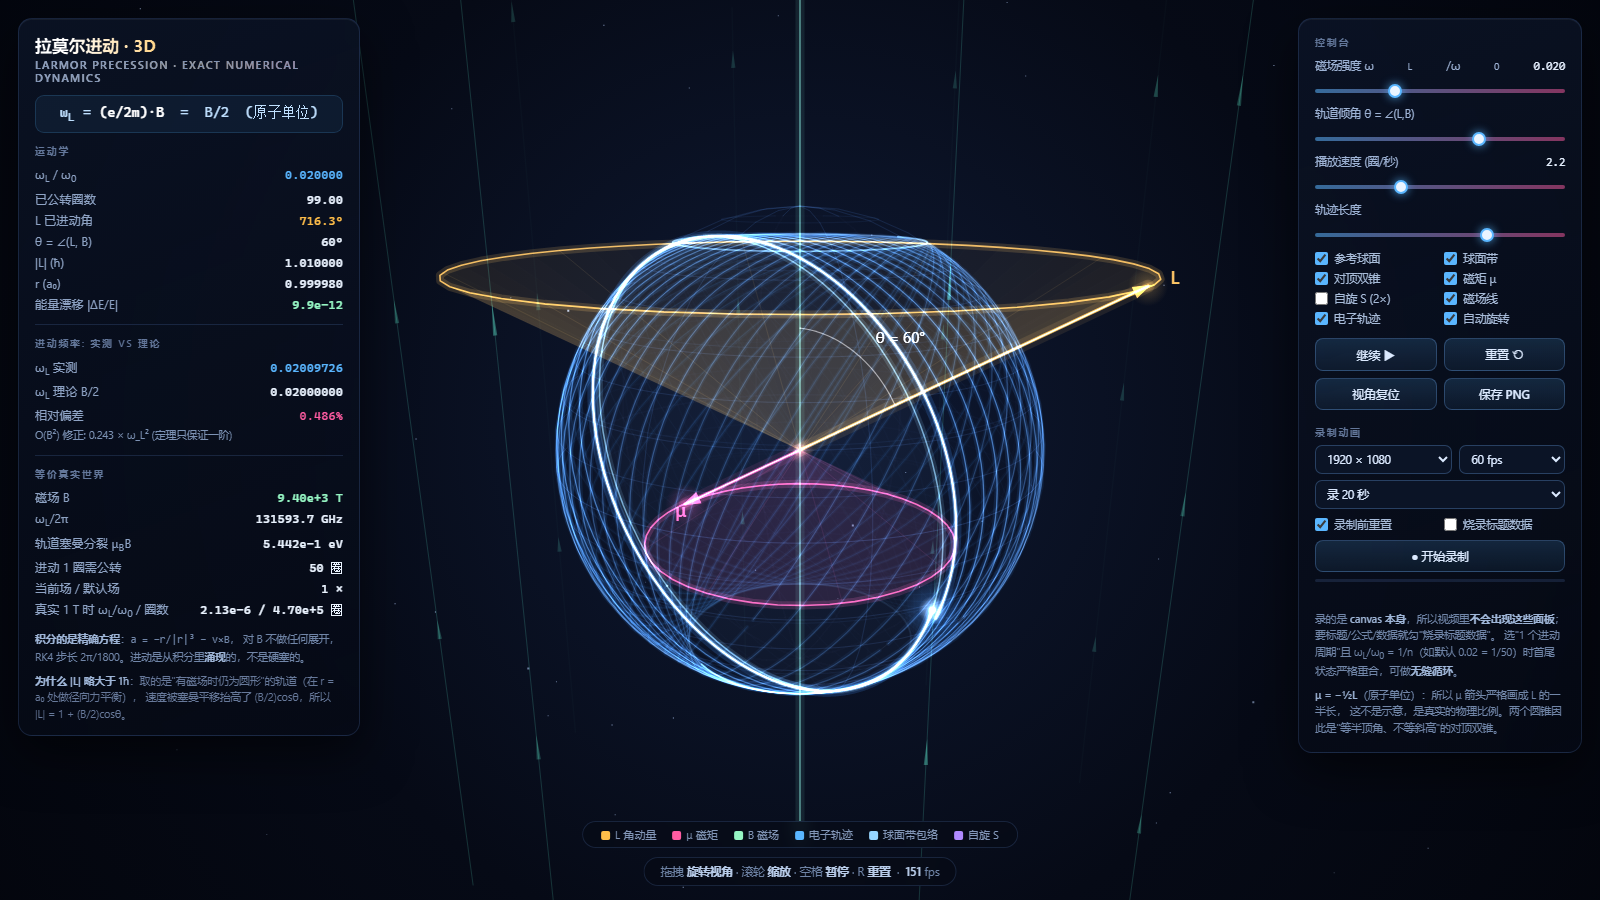
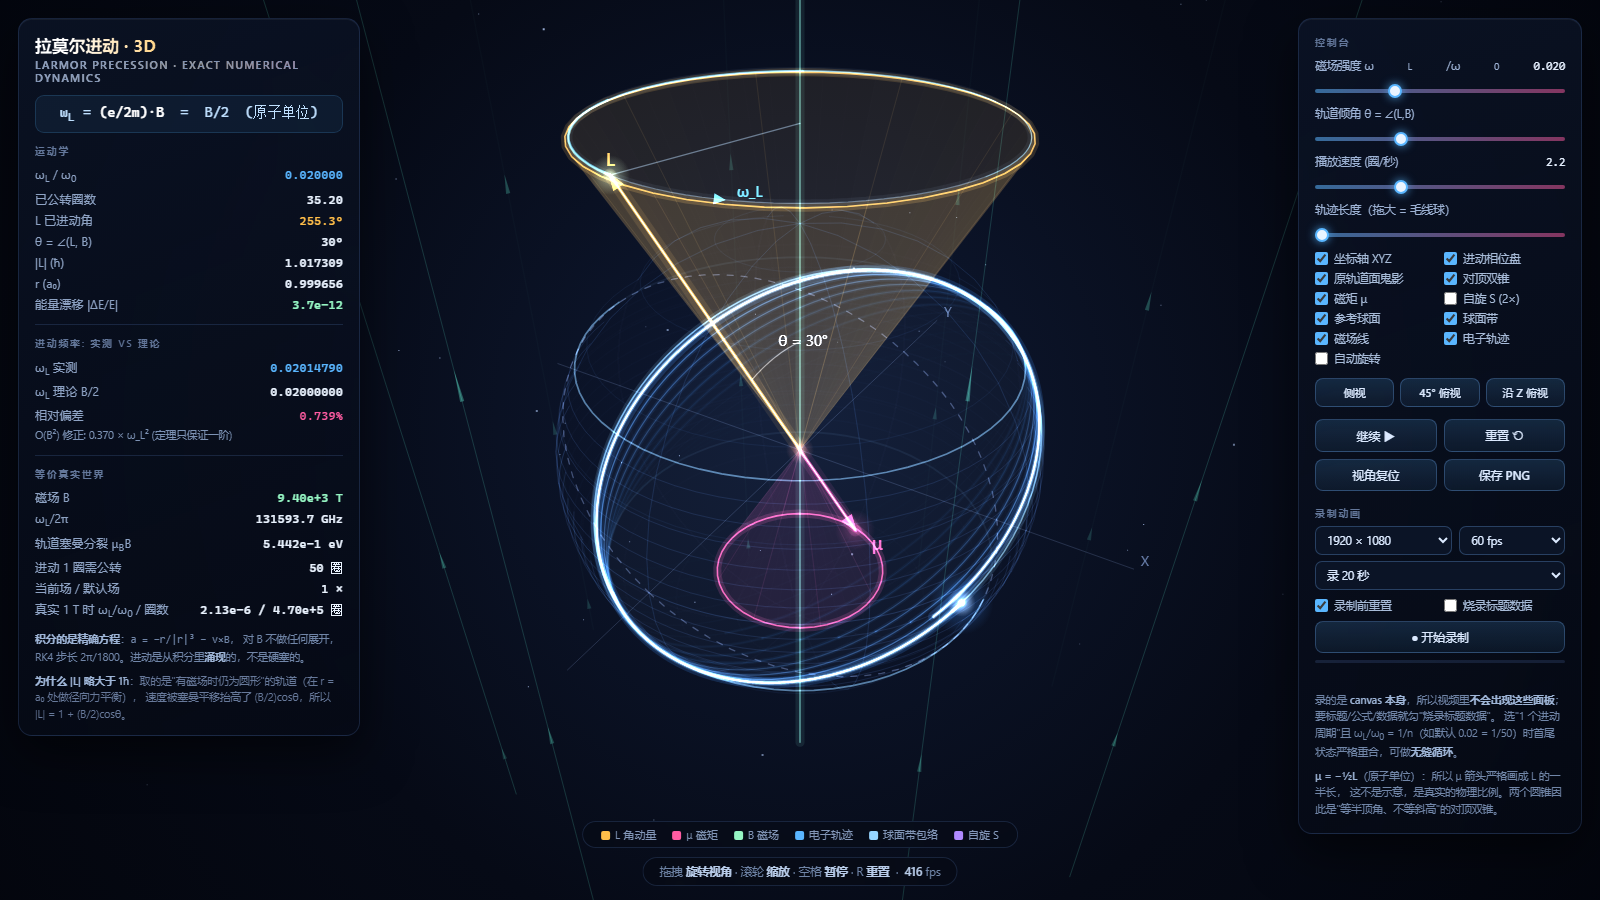
Make the precession about Z unmistakable (teacher feedback)
Feedback: "the idea is right, it does precess, just make it move along/about
the Z axis". Since the demo already precessed about Z (B was drawn along Z and
the precession rate is measured from atan2(L_y, L_x)), the problem was
legibility, not physics. Five fixes:

- Default tilt theta 60 -> 30 deg. At 60 deg the orbit plane is nearly vertical
  so the same motion reads as "tumbling"; near the equatorial plane it reads as
  "a ring steadily rotating about the vertical axis".
- Default camera elevation 17 -> 35 deg. At 17 deg the precession cone is
  foreshortened 3.4:1 and the tip's circle looks like it slides sideways.
- Camera auto-rotation now OFF by default: a rotating camera makes it impossible
  to tell whether the orbit precesses or the camera moves.
- Label the axis explicitly: the vertical axis is now labelled "Z" with
  "B || Z", plus faint X and Y axes for an absolute azimuth reference.
- New precession phase dial: the horizontal circle traced by the L tip, the
  current phase radius, a 270-deg fading trail arc, and a tangential arrow
  labelled omega_L showing the sense of rotation about Z.
- New dashed "ghost" of the initial orbit plane, so the swept angle is directly
  visible as the gap between the ghost and the current orbit ring.
- Default trail length reduced so the exposure shows ~12 discrete orbit rings
  fanning open instead of a saturated ball of wool (which is azimuthally
  symmetric and therefore hides the precession). Slider 0 = fan, 100 = wool.
[…]

diff --git a/larmor-precession/app.js b/larmor-precession/app.js
@@ -47,6 +47,10 @@ var COL = {
   trailA: [ 62, 150, 255],
   trailB: [226, 248, 255],
   elec:   [255, 255, 255],
+  dial:   [186, 226, 255],
+  dialA:  [104, 222, 255],
+  ghost:  [132, 150, 196],
+  xyz:    [122, 142, 178],
   white:  [255, 255, 255]
 };
 
@@ -56,7 +60,7 @@ function createApp(canvas, doc, win) {
   var dpr = 1;
 
   /* ---------------- 相机 / 投影 ---------------- */
-  var cam = { az: -1.02, el: 0.30, dist: 3.75, zoom: 1, auto: true, autoRate: 0.055 };
+  var cam = { az: -1.02, el: 0.62, dist: 3.75, zoom: 1, auto: false, autoRate: 0.055 };
   var view = { w: 1280, h: 720, cx: 640, cy: 360, focal: 800, dist: 3.75,
                eye: [0, 0, 0], f: [0, 0, -1], r: [1, 0, 0], u: [0, 1, 0] };
 
@@ -90,12 +94,12 @@ function createApp(canvas, doc, win) {
   var CFG = { stepsPerOrbit: 1800, histStride: 12, histMax: 12000, recentMax: 1800 };
   var S = {
     t: 0, steps: 0, r: [1, 0, 0], v: [0, 1, 0],
-    B: 0.04, Btarget: 0.04, thetaDeg: 60, theta: 60 * DEG,
-    L: [0, 0, 1], Lmag: 1, rmag: 1,
+    B: 0.04, Btarget: 0.04, thetaDeg: 30, theta: 30 * DEG,
+    L: [0, 0, 1], Lmag: 1, rmag: 1, L0: [0, 0, 1],
     phiPrev: null, phiAcc: 0, wMeas: 0,
     E0: -0.5, dE: 0,
     hist: [], recent: [],
-    paused: false, speed: 2.2, trailFrac: 0.7, showGlow: true
+    paused: false, speed: 2.2, trailFrac: 0.0, showGlow: true
   };
   var STAR = [];
 
@@ -117,6 +121,7 @@ function createApp(canvas, doc, win) {
     S.E0 = PH.energy(st); S.dE = 0;
     S.hist.length = 0; S.recent.length = 0;
     S.L = PH.angularMomentum(st); S.Lmag = V.len(S.L); S.rmag = PH.radius(st);
+    S.L0 = V.unit(S.L);                       /* 进动起始方向, 用于画"原轨道面"鬼影 */
   }
 
   /* ---------------- 推进物理 ---------------- */
@@ -325,11 +330,21 @@ function createApp(canvas, doc, win) {
       }
       ctx.fillStyle = rgba(COL.field, 0.14 + 0.09 * i); ctx.fill();
     }
-    /* B 轴箭头 + 标签 */
+    /* B 轴箭头 + 标签 (显式标出这就是 Z 轴) */
     var pt = project([0, 0, 2.05]);
     if (pt.vis) {
       sprite(pt.x, pt.y, 22, COL.axis, 0.42);
-      text('B', pt.x + 16, pt.y - 14, 20, rgba(COL.axis, 0.95), 'left', true);
+      text('Z', pt.x + 15, pt.y - 12, 21, rgba(COL.axis, 0.98), 'left', true);
+      text('B \u2225 Z', pt.x + 15, pt.y + 10, 14, rgba(COL.axis, 0.75), 'left', false);
+    }
+    /* 坐标轴 X / Y (赤道面内), 给"绕 Z 转"一个绝对参考 */
+    if (ui.axes) {
+      var LA = 1.40, k2, ax = [[[-LA, 0, 0], [LA, 0, 0], 'X'], [[0, -LA, 0], [0, LA, 0], 'Y']];
+      for (k2 = 0; k2 < 2; k2++) {
+        polyAll(ax[k2], COL.xyz, 0.22, 1);
+        var q = project(ax[k2][1]);
+        if (q.vis) text(ax[k2][2], q.x + 7, q.y - 7, 14, rgba(COL.xyz, 0.78), 'left', false);
+      }
     }
   }
 
@@ -348,7 +363,7 @@ function createApp(canvas, doc, win) {
       for (b = 0; b < NB; b++) {           /* 亮芯 */
         i0 = Math.floor(n * b / NB); i1 = Math.floor(n * (b + 1) / NB);
         age = (b + 0.5) / NB;
-        strokeRange(S.hist, i0, i1, decC, COL.trailA, 0.022 + 0.32 * Math.pow(age, 2.8), 0.35 + 1.1 * age);
+        strokeRange(S.hist, i0, i1, decC, COL.trailA, 0.012 + 0.40 * Math.pow(age, 3.2), 0.35 + 1.2 * age);
         if (b >= NB - 4) strokeRange(S.hist, i0, i1, 1, COL.trailB, 0.09 + 0.20 * (b - NB + 4) / 4, 0.25 + 0.5 * age);
       }
     }
@@ -359,6 +374,67 @@ function createApp(canvas, doc, win) {
       strokeRange(S.recent, 0, m, 1, COL.trailB, 0.62, 2.1);
       strokeRange(S.recent, 0, m, 1, COL.white, 0.95, 1.0);
     }
+  }
+
+  /* 原轨道面鬼影: 让"相对于开始转过了多少"看得见 */
+  function drawGhostOrbit() {
+    if (!ui.ghost) return;
+    var b = basis(S.L0), u = b[1], w = b[2];
+    var R = S.rmag, pts = [], i, a2;
+    for (i = 0; i <= 72; i++) { a2 = i / 72 * TAU; pts.push(V.add(V.mul(u, R * Math.cos(a2)), V.mul(w, R * Math.sin(a2)))); }
+    if (ctx.setLineDash) ctx.setLineDash([6, 8]);
+    polyAll(pts, COL.ghost, 0.40, 1.3);
+    if (ctx.setLineDash) ctx.setLineDash([]);
+  }
+
+  /* ============ 进动相位盘: 让"绕 Z 轴匀速转动"成为画面最明确的信息 ============ */
+  function drawPrecessionDial() {
+    if (!ui.dial) return;
+    var a = V.unit(S.L), len = 1.55;
+    var zL = len * a[2];
+    var rL = Math.hypot(len * a[0], len * a[1]);
+    if (rL < 0.05) return;
+    var i, N = 96, pts = [], ph;
+
+    /* L 矢端的水平轨迹圆 (= 进动锥的边沿) */
+    for (i = 0; i <= N; i++) { ph = i / N * TAU; pts.push([rL * Math.cos(ph), rL * Math.sin(ph), zL]); }
+    polyAll(pts, COL.dial, 0.34, 1.2);
+    polyAll(pts, COL.dial, 0.055, 8);
+
+    /* 残影弧: 从当前相位往回 1.5π, 分 4 段渐隐 —— 直接读出转向和快慢 */
+    var ph0 = Math.atan2(a[1], a[0]), seg, K = 14;
+    for (seg = 0; seg < 4; seg++) {
+      var f0 = seg / 4, f1 = (seg + 1) / 4, arc = [];
+      for (i = 0; i <= K; i++) {
+        var f = f0 + (f1 - f0) * i / K;
+        var p2 = ph0 - f * Math.PI * 1.5;
+        arc.push([rL * Math.cos(p2), rL * Math.sin(p2), zL]);
+      }
+      arc.reverse();
+      polyAll(arc, COL.dialA, 0.60 * (1 - seg / 4.6), 2.8 - seg * 0.55);
+    }
+
+    /* 相位半径: 从 Z 轴上的一点拉到 L 矢端 */
+    var tip = V.mul(a, len);
+    polyAll([[0, 0, zL], tip], COL.dial, 0.40, 1.2);
+
+    /* 切向箭头 + ω_L 标签, 指明绕 Z 的转向 */
+    var phA = ph0 + 0.50;
+    var pa = [rL * Math.cos(phA), rL * Math.sin(phA), zL];
+    var pb = V.add(pa, [-0.20 * Math.sin(phA), 0.20 * Math.cos(phA), 0]);
+    var pA = project(pa), pB = project(pb);
+    if (pA.vis && pB.vis) {
+      var dx = pB.x - pA.x, dy = pB.y - pA.y, dl = Math.hypot(dx, dy) || 1; dx /= dl; dy /= dl;
+      ctx.beginPath();
+      ctx.moveTo(pA.x + dx * 9, pA.y + dy * 9);
+      ctx.lineTo(pA.x - dx * 3 - dy * 5.5, pA.y - dy * 3 + dx * 5.5);
+      ctx.lineTo(pA.x - dx * 3 + dy * 5.5, pA.y - dy * 3 - dx * 5.5);
+      ctx.closePath(); ctx.fillStyle = rgba(COL.dialA, 0.95); ctx.fill();
+      text('\u03c9_L', pA.x + dx * 18 + 2, pA.y + dy * 18 - 8, 15, rgba(COL.dialA, 0.95), 'left', true);
+    }
+
+    var pt = project(tip);
+    if (pt.vis) sprite(pt.x, pt.y, 20, COL.dialA, 0.5);
   }
 
   function drawOrbit() {
@@ -520,9 +596,11 @@ function createApp(canvas, doc, win) {
     ctx.lineCap = 'round';
     if (ui.sphere) drawSphereAndBand();
     drawField();
+    drawGhostOrbit();
     drawTrail();
     drawOrbit();
     drawVectors();
+    drawPrecessionDial();
     drawElectron();
     ctx.globalCompositeOperation = 'source-over';
     if (ui.burn) drawOverlay();
@@ -531,7 +609,8 @@ function createApp(canvas, doc, win) {
   /* ============================ UI ============================ */
   var ui = {
     sphere: true, band: true, cone: true, coneA: 0.85, mu: true, spin: false,
-    field: true, trail: true, auto: true, burn: false
+    field: true, trail: true, auto: false, burn: false,
+    axes: true, dial: true, ghost: true
   };
   var el = {};
   function need(id) { var e = doc.getElementById(id); if (!e) throw new Error('missing element #' + id); return e; }
@@ -542,7 +621,8 @@ function createApp(canvas, doc, win) {
     ['r-ratio', 'r-theta', 'r-speed', 'r-trail',
      'c-sphere', 'c-band', 'c-cone', 'c-mu', 'c-spin', 'c-field', 'c-trail', 'c-auto',
      'b-pause', 'b-reset', 'b-cam', 'b-png', 'l-ratio', 'l-speed',
-     'r-res', 'r-fps', 'r-dur', 'c-reset', 'c-burn', 'b-rec', 'v-rec', 'v-recbar'
+     'r-res', 'r-fps', 'r-dur', 'c-reset', 'c-burn', 'b-rec', 'v-rec', 'v-recbar',
+     'c-axes', 'c-dial', 'c-ghost', 'b-v1', 'b-v2', 'b-v3'
     ].forEach(function (id) { el[id] = need(id); });
 
     el['r-ratio'].value = (S.Btarget / 2).toFixed(3);
@@ -570,6 +650,16 @@ function createApp(canvas, doc, win) {
     bindChk('c-sphere', 'sphere'); bindChk('c-band', 'band'); bindChk('c-cone', 'cone');
     bindChk('c-mu', 'mu'); bindChk('c-spin', 'spin'); bindChk('c-field', 'field');
     bindChk('c-trail', 'trail'); bindChk('c-auto', 'auto');
+    bindChk('c-axes', 'axes'); bindChk('c-dial', 'dial'); bindChk('c-ghost', 'ghost');
+
+    /* 视角预设: 侧视 / 45° 俯视 / 沿 Z 俯视 */
+    function setCam(az, el2, zm) {
+      cam.az = az; cam.el = el2; if (zm) cam.zoom = zm;
+      ui.auto = false; if (el['c-auto']) el['c-auto'].checked = false;
+    }
+    el['b-v1'].addEventListener('click', function () { setCam(-1.02, 0.10, 1); });
+    el['b-v2'].addEventListener('click', function () { setCam(-1.02, 0.62, 1); });
+    el['b-v3'].addEventListener('click', function () { setCam(-1.02, 1.32, 1); });
 
     el['b-pause'].addEventListener('click', function () {
       S.paused = !S.paused;
@@ -890,6 +980,7 @@ if (typeof document !== 'undefined' && typeof window !== 'undefined' && document
     setChk(P.off, false);
     if (P.theta !== undefined) { app.state.thetaDeg = parseFloat(P.theta); app.state.theta = app.state.thetaDeg * Math.PI / 180; }
     if (P.ratio !== undefined) { app.state.Btarget = 2 * parseFloat(P.ratio); app.state.B = app.state.Btarget; }
+    if (P.trail !== undefined) app.state.trailFrac = Math.max(0, Math.min(1, parseFloat(P.trail) / 100));
 
     function fit() { app.resize(window.innerWidth, window.innerHeight); }
     window.addEventListener('resize', fit);

diff --git a/larmor-precession/index.html b/larmor-precession/index.html
@@ -74,6 +74,8 @@
   .checks label{display:flex;align-items:center;gap:6px;font-size:11.5px;color:#a8bcd9;cursor:pointer}
   .checks input{accent-color:#5ab6ff;width:13px;height:13px;cursor:pointer}
   .btns{display:grid;grid-template-columns:1fr 1fr;gap:7px;margin-top:12px}
+  .btns3{display:grid;grid-template-columns:1fr 1fr 1fr;gap:6px;margin-top:12px}
+  .btns3 button{font-size:11px;padding:6px 4px}
   button{
     font-family:inherit;font-size:11.8px;color:#dceaff;cursor:pointer;
     background:linear-gradient(180deg,rgba(90,182,255,.16),rgba(90,182,255,.07));
@@ -162,23 +164,32 @@
   <input id="r-ratio" type="range" min="0.002" max="0.06" step="0.001" value="0.020">
 
   <label class="ctl">轨道倾角 θ = ∠(L,B)</label>
-  <input id="r-theta" type="range" min="0" max="90" step="1" value="60">
+  <input id="r-theta" type="range" min="0" max="90" step="1" value="30">
 
   <label class="ctl">播放速度 (圈/秒) <span id="l-speed">2.2</span></label>
   <input id="r-speed" type="range" min="0.3" max="6" step="0.1" value="2.2">
 
-  <label class="ctl">轨迹长度</label>
-  <input id="r-trail" type="range" min="0" max="100" step="1" value="70">
+  <label class="ctl">轨迹长度（拖大 = 毛线球）</label>
+  <input id="r-trail" type="range" min="0" max="100" step="1" value="0">
 
   <div class="checks">
-    <label><input type="checkbox" id="c-sphere" checked>参考球面</label>
-    <label><input type="checkbox" id="c-band" checked>球面带</label>
+    <label><input type="checkbox" id="c-axes" checked>坐标轴 XYZ</label>
+    <label><input type="checkbox" id="c-dial" checked>进动相位盘</label>
+    <label><input type="checkbox" id="c-ghost" checked>原轨道面鬼影</label>
     <label><input type="checkbox" id="c-cone" checked>对顶双锥</label>
     <label><input type="checkbox" id="c-mu" checked>磁矩 μ</label>
     <label><input type="checkbox" id="c-spin">自旋 S (2×)</label>
+    <label><input type="checkbox" id="c-sphere" checked>参考球面</label>
+    <label><input type="checkbox" id="c-band" checked>球面带</label>
     <label><input type="checkbox" id="c-field" checked>磁场线</label>
     <label><input type="checkbox" id="c-trail" checked>电子轨迹</label>
-    <label><input type="checkbox" id="c-auto" checked>自动旋转</label>
+    <label><input type="checkbox" id="c-auto">自动旋转</label>
+  </div>
+
+  <div class="btns3">
+    <button id="b-v1">侧视</button>
+    <button id="b-v2">45° 俯视</button>
+    <button id="b-v3">沿 Z 俯视</button>
   </div>
 
   <div class="btns">

diff --git a/README.md b/README.md
@@ -20,7 +20,9 @@ dv/dt = − r/|r|³  −  v × B        （原子单位，RK4，每圈公转 180
 
 ![界面](larmor-precession/preview-1-ui.png)
 
-![对顶双锥与球面带](larmor-precession/preview-2-poster.png)
+![默认视图：轨道环绕 Z 轴叠开成扇面](larmor-precession/preview-2-fan.png)
+
+![把轨迹拉长就是"毛线球"](larmor-precession/preview-3-wool.png)
 
 **数值验证**（`node larmor-precession/verify.js`）：
 
